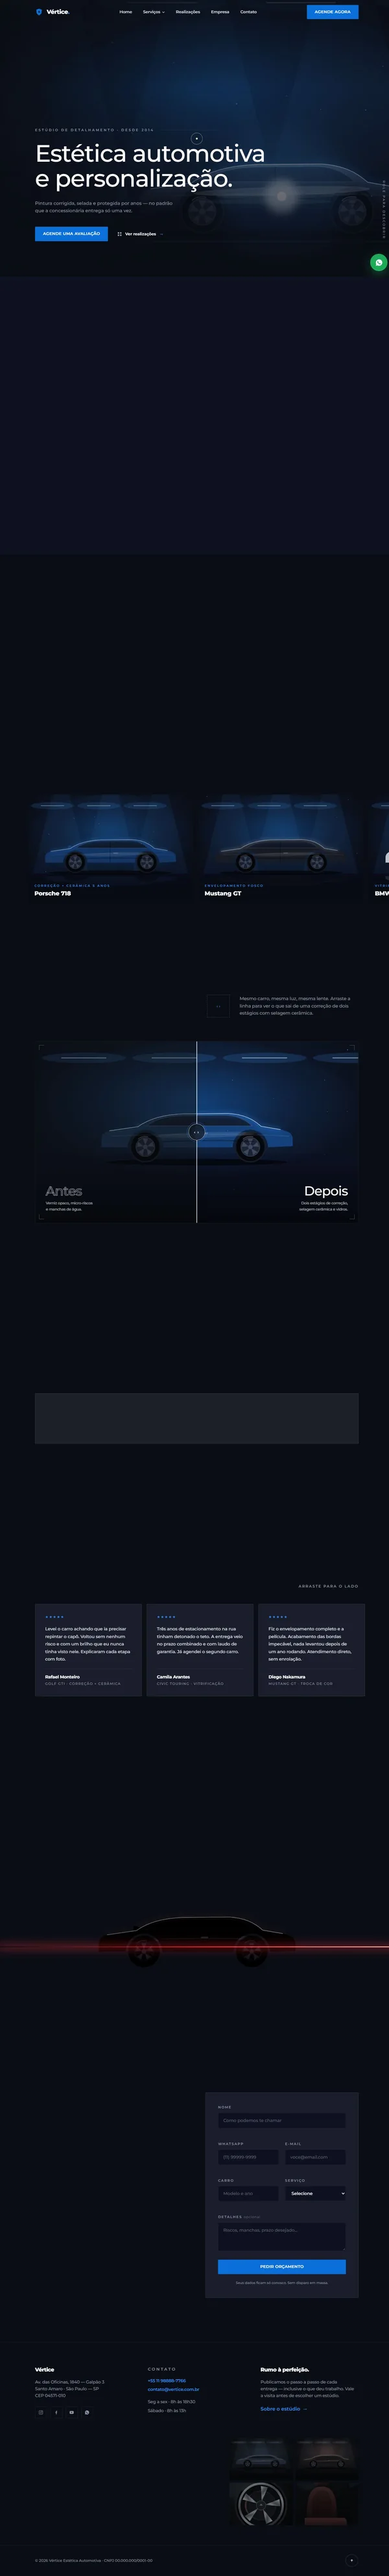
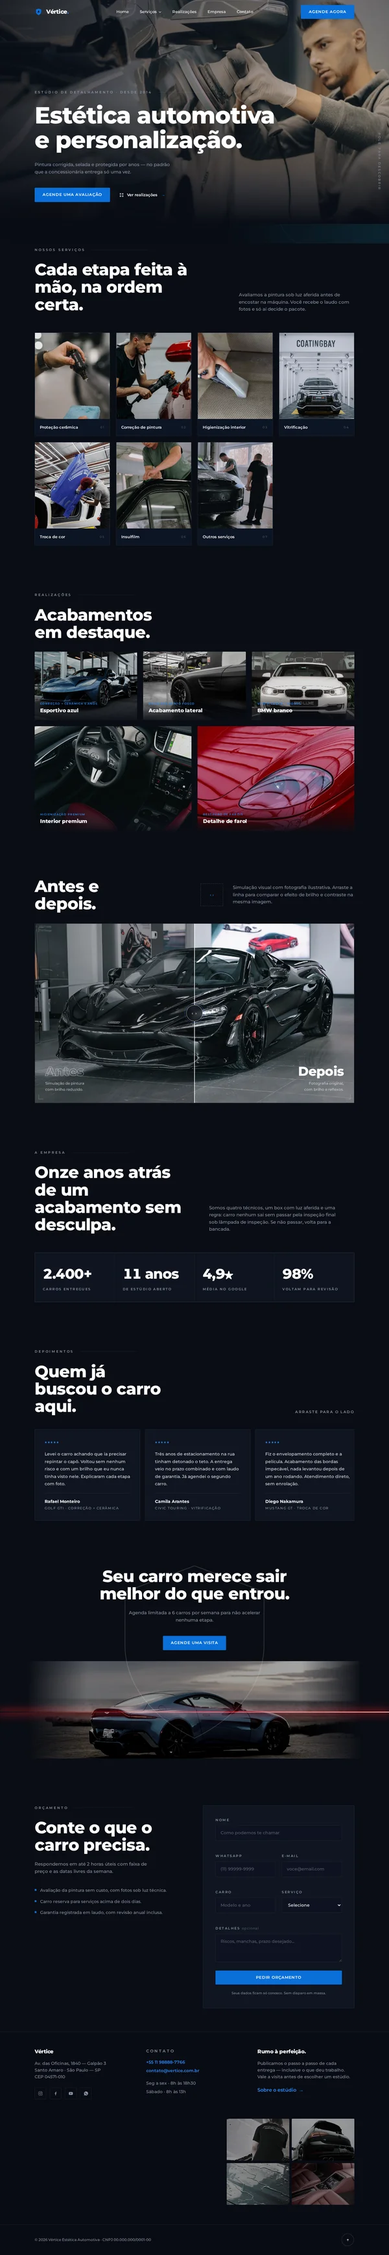
Alinha fotos aos serviços da Vértice e atualiza prévias do portfólio

diff --git a/projetos/vertice/index.html b/projetos/vertice/index.html
@@ -212,7 +212,7 @@ body.cursor-off #cur-dot,body.cursor-off #cur-ring{display:none}
 .svc-grid{display:grid;grid-template-columns:repeat(4,1fr);gap:16px;perspective:1000px}
 .svc{
   position:relative;background:var(--surface);border-radius:2px;overflow:hidden;cursor:pointer;
-  transform-style:preserve-3d;will-change:transform;transition:box-shadow .45s ease;
+  transform-style:flat;will-change:transform;transition:box-shadow .45s ease;
 }
 .svc:hover,.svc:focus-visible{box-shadow:0 28px 60px rgba(0,0,0,.55)}
 .svc-img{position:relative;aspect-ratio:1/1.1;overflow:hidden}
@@ -568,31 +568,31 @@ body{isolation:isolate}
 
     <div class="svc-grid mt-16">
       <article class="svc is-reveal" tabindex="0">
-        <div class="svc-img"><img src="assets/images/esportivo-azul.webp" loading="lazy" width="800" height="880" alt="Capô e dianteira de carro esportivo azul com reflexos na pintura"></div>
+        <div class="svc-img"><img src="assets/images/protecao-ceramica.webp" loading="lazy" width="800" height="880" alt="Preparação do revestimento cerâmico em um aplicador azul junto à lataria"></div>
         <div class="svc-bar"><span>Proteção cerâmica</span><em>01</em></div>
       </article>
       <article class="svc is-reveal" tabindex="0">
-        <div class="svc-img"><img src="assets/images/polimento-profissional.webp" loading="lazy" width="800" height="880" alt="Politriz trabalhando a lataria de um carro"></div>
+        <div class="svc-img"><img src="assets/images/correcao-pintura.webp" loading="lazy" width="800" height="880" alt="Profissional usando politriz na pintura de um carro vermelho"></div>
         <div class="svc-bar"><span>Correção de pintura</span><em>02</em></div>
       </article>
       <article class="svc is-reveal" tabindex="0">
-        <div class="svc-img"><img src="assets/images/interior-couro-vermelho.webp" loading="lazy" width="800" height="880" alt="Interior de carro com bancos de couro vermelho"></div>
+        <div class="svc-img"><img src="assets/images/higienizacao-extratora.webp" loading="lazy" width="800" height="880" alt="Limpeza profunda de banco de tecido com extratora"></div>
         <div class="svc-bar"><span>Higienização interior</span><em>03</em></div>
       </article>
       <article class="svc is-reveal" tabindex="0">
-        <div class="svc-img"><img src="assets/images/lavagem-espuma.webp" loading="lazy" width="800" height="880" alt="Lataria coberta por espuma durante a lavagem automotiva"></div>
+        <div class="svc-img"><img src="assets/images/vitrificacao-estudio.webp" loading="lazy" width="800" height="880" alt="SUV em box de aplicação de revestimento com iluminação de inspeção"></div>
         <div class="svc-bar"><span>Vitrificação</span><em>04</em></div>
       </article>
       <article class="svc is-reveal" tabindex="0">
-        <div class="svc-img"><img src="assets/images/esportivo-azul-lateral.webp" loading="lazy" width="800" height="880" alt="Carro esportivo azul visto de lado"></div>
+        <div class="svc-img"><img src="assets/images/envelopamento-azul.webp" loading="lazy" width="800" height="880" alt="Profissional aplicando vinil azul na porta de um carro"></div>
         <div class="svc-bar"><span>Troca de cor</span><em>05</em></div>
       </article>
       <article class="svc is-reveal" tabindex="0">
-        <div class="svc-img"><img src="assets/images/vidros-escurecidos.webp" loading="lazy" width="800" height="880" alt="Carro preto com vidros escurecidos"></div>
+        <div class="svc-img"><img src="assets/images/instalacao-insulfilm.webp" loading="lazy" width="800" height="880" alt="Instalador ajustando película no vidro da porta de um carro"></div>
         <div class="svc-bar"><span>Insulfilm</span><em>06</em></div>
       </article>
       <article class="svc is-reveal" tabindex="0">
-        <div class="svc-img"><img src="assets/images/esportivo-preto.webp" loading="lazy" width="800" height="880" alt="Carro esportivo preto em um showroom"></div>
+        <div class="svc-img"><img src="assets/images/protecao-pelicula.webp" loading="lazy" width="800" height="880" alt="Profissionais aplicando película de proteção na carroceria"></div>
         <div class="svc-bar"><span>Outros serviços</span><em>07</em></div>
       </article>
     </div>
@@ -653,9 +653,9 @@ body{isolation:isolate}
       <span class="cmp-corner tl" aria-hidden="true"></span><span class="cmp-corner tr" aria-hidden="true"></span>
       <span class="cmp-corner bl" aria-hidden="true"></span><span class="cmp-corner br" aria-hidden="true"></span>
 
-      <img class="cmp-img" src="assets/images/esportivo-azul.webp" loading="lazy" width="1600" height="900" alt="Carro esportivo azul com brilho e reflexos na pintura">
+      <img class="cmp-img" src="assets/images/esportivo-preto.webp" loading="lazy" width="1600" height="900" alt="Carro esportivo preto com reflexos na pintura em um showroom">
       <div class="cmp-before" id="cmp-before" aria-hidden="true">
-        <img class="cmp-img" src="assets/images/esportivo-azul.webp" loading="lazy" width="1600" height="900" alt="">
+        <img class="cmp-img" src="assets/images/esportivo-preto.webp" loading="lazy" width="1600" height="900" alt="">
       </div>
 
       <div class="cmp-cap cmp-cap-before" id="cap-before">
@@ -873,9 +873,9 @@ body{isolation:isolate}
 
   <div class="shell mt-16">
     <div class="mosaic">
-      <a href="#realizacoes" class="mos"><img src="assets/images/esportivo-azul.webp" loading="lazy" width="600" height="400" alt="Carro esportivo azul em frente a um showroom"></a>
-      <a href="#realizacoes" class="mos"><img src="assets/images/lateral-estudio.webp" loading="lazy" width="600" height="400" alt="Lateral de carro esportivo sob a iluminação da oficina"></a>
-      <a href="#realizacoes" class="mos"><img src="assets/images/painel-console.webp" loading="lazy" width="600" height="400" alt="Painel e console central de carro"></a>
+      <a href="#realizacoes" class="mos"><img src="assets/images/lavagem-espuma.webp" loading="lazy" width="600" height="400" alt="Lavagem de carro coberto por espuma"></a>
+      <a href="#realizacoes" class="mos"><img src="assets/images/vidros-escurecidos.webp" loading="lazy" width="600" height="400" alt="Traseira de carro preto com vidros escurecidos"></a>
+      <a href="#realizacoes" class="mos"><img src="assets/images/gotas-pintura.webp" loading="lazy" width="600" height="400" alt="Gotas de água sobre a pintura de um carro"></a>
       <a href="#realizacoes" class="mos"><img src="assets/images/interior-couro-vermelho.webp" loading="lazy" width="600" height="400" alt="Bancos e acabamento de couro vermelho"></a>
     </div>
   </div>

diff --git a/projetos/vertice/vertice-landing.html b/projetos/vertice/vertice-landing.html
@@ -212,7 +212,7 @@ body.cursor-off #cur-dot,body.cursor-off #cur-ring{display:none}
 .svc-grid{display:grid;grid-template-columns:repeat(4,1fr);gap:16px;perspective:1000px}
 .svc{
   position:relative;background:var(--surface);border-radius:2px;overflow:hidden;cursor:pointer;
-  transform-style:preserve-3d;will-change:transform;transition:box-shadow .45s ease;
+  transform-style:flat;will-change:transform;transition:box-shadow .45s ease;
 }
 .svc:hover,.svc:focus-visible{box-shadow:0 28px 60px rgba(0,0,0,.55)}
 .svc-img{position:relative;aspect-ratio:1/1.1;overflow:hidden}
@@ -568,31 +568,31 @@ body{isolation:isolate}
 
     <div class="svc-grid mt-16">
       <article class="svc is-reveal" tabindex="0">
-        <div class="svc-img"><img src="assets/images/esportivo-azul.webp" loading="lazy" width="800" height="880" alt="Capô e dianteira de carro esportivo azul com reflexos na pintura"></div>
+        <div class="svc-img"><img src="assets/images/protecao-ceramica.webp" loading="lazy" width="800" height="880" alt="Preparação do revestimento cerâmico em um aplicador azul junto à lataria"></div>
         <div class="svc-bar"><span>Proteção cerâmica</span><em>01</em></div>
       </article>
       <article class="svc is-reveal" tabindex="0">
-        <div class="svc-img"><img src="assets/images/polimento-profissional.webp" loading="lazy" width="800" height="880" alt="Politriz trabalhando a lataria de um carro"></div>
+        <div class="svc-img"><img src="assets/images/correcao-pintura.webp" loading="lazy" width="800" height="880" alt="Profissional usando politriz na pintura de um carro vermelho"></div>
         <div class="svc-bar"><span>Correção de pintura</span><em>02</em></div>
       </article>
       <article class="svc is-reveal" tabindex="0">
-        <div class="svc-img"><img src="assets/images/interior-couro-vermelho.webp" loading="lazy" width="800" height="880" alt="Interior de carro com bancos de couro vermelho"></div>
+        <div class="svc-img"><img src="assets/images/higienizacao-extratora.webp" loading="lazy" width="800" height="880" alt="Limpeza profunda de banco de tecido com extratora"></div>
         <div class="svc-bar"><span>Higienização interior</span><em>03</em></div>
       </article>
       <article class="svc is-reveal" tabindex="0">
-        <div class="svc-img"><img src="assets/images/lavagem-espuma.webp" loading="lazy" width="800" height="880" alt="Lataria coberta por espuma durante a lavagem automotiva"></div>
+        <div class="svc-img"><img src="assets/images/vitrificacao-estudio.webp" loading="lazy" width="800" height="880" alt="SUV em box de aplicação de revestimento com iluminação de inspeção"></div>
         <div class="svc-bar"><span>Vitrificação</span><em>04</em></div>
       </article>
       <article class="svc is-reveal" tabindex="0">
-        <div class="svc-img"><img src="assets/images/esportivo-azul-lateral.webp" loading="lazy" width="800" height="880" alt="Carro esportivo azul visto de lado"></div>
+        <div class="svc-img"><img src="assets/images/envelopamento-azul.webp" loading="lazy" width="800" height="880" alt="Profissional aplicando vinil azul na porta de um carro"></div>
         <div class="svc-bar"><span>Troca de cor</span><em>05</em></div>
       </article>
       <article class="svc is-reveal" tabindex="0">
-        <div class="svc-img"><img src="assets/images/vidros-escurecidos.webp" loading="lazy" width="800" height="880" alt="Carro preto com vidros escurecidos"></div>
+        <div class="svc-img"><img src="assets/images/instalacao-insulfilm.webp" loading="lazy" width="800" height="880" alt="Instalador ajustando película no vidro da porta de um carro"></div>
         <div class="svc-bar"><span>Insulfilm</span><em>06</em></div>
       </article>
       <article class="svc is-reveal" tabindex="0">
-        <div class="svc-img"><img src="assets/images/esportivo-preto.webp" loading="lazy" width="800" height="880" alt="Carro esportivo preto em um showroom"></div>
+        <div class="svc-img"><img src="assets/images/protecao-pelicula.webp" loading="lazy" width="800" height="880" alt="Profissionais aplicando película de proteção na carroceria"></div>
         <div class="svc-bar"><span>Outros serviços</span><em>07</em></div>
       </article>
     </div>
@@ -653,9 +653,9 @@ body{isolation:isolate}
       <span class="cmp-corner tl" aria-hidden="true"></span><span class="cmp-corner tr" aria-hidden="true"></span>
       <span class="cmp-corner bl" aria-hidden="true"></span><span class="cmp-corner br" aria-hidden="true"></span>
 
-      <img class="cmp-img" src="assets/images/esportivo-azul.webp" loading="lazy" width="1600" height="900" alt="Carro esportivo azul com brilho e reflexos na pintura">
+      <img class="cmp-img" src="assets/images/esportivo-preto.webp" loading="lazy" width="1600" height="900" alt="Carro esportivo preto com reflexos na pintura em um showroom">
       <div class="cmp-before" id="cmp-before" aria-hidden="true">
-        <img class="cmp-img" src="assets/images/esportivo-azul.webp" loading="lazy" width="1600" height="900" alt="">
+        <img class="cmp-img" src="assets/images/esportivo-preto.webp" loading="lazy" width="1600" height="900" alt="">
       </div>
 
       <div class="cmp-cap cmp-cap-before" id="cap-before">
@@ -873,9 +873,9 @@ body{isolation:isolate}
 
   <div class="shell mt-16">
     <div class="mosaic">
-      <a href="#realizacoes" class="mos"><img src="assets/images/esportivo-azul.webp" loading="lazy" width="600" height="400" alt="Carro esportivo azul em frente a um showroom"></a>
-      <a href="#realizacoes" class="mos"><img src="assets/images/lateral-estudio.webp" loading="lazy" width="600" height="400" alt="Lateral de carro esportivo sob a iluminação da oficina"></a>
-      <a href="#realizacoes" class="mos"><img src="assets/images/painel-console.webp" loading="lazy" width="600" height="400" alt="Painel e console central de carro"></a>
+      <a href="#realizacoes" class="mos"><img src="assets/images/lavagem-espuma.webp" loading="lazy" width="600" height="400" alt="Lavagem de carro coberto por espuma"></a>
+      <a href="#realizacoes" class="mos"><img src="assets/images/vidros-escurecidos.webp" loading="lazy" width="600" height="400" alt="Traseira de carro preto com vidros escurecidos"></a>
+      <a href="#realizacoes" class="mos"><img src="assets/images/gotas-pintura.webp" loading="lazy" width="600" height="400" alt="Gotas de água sobre a pintura de um carro"></a>
       <a href="#realizacoes" class="mos"><img src="assets/images/interior-couro-vermelho.webp" loading="lazy" width="600" height="400" alt="Bancos e acabamento de couro vermelho"></a>
     </div>
   </div>

diff --git a/index.html b/index.html
@@ -58,7 +58,7 @@
           <a class="project-card" href="./projetos/yumed/" target="_blank" rel="noopener noreferrer" aria-label="Visitar site YU.MED" data-project="0"><picture><source media="(max-width: 800px)" srcset="./assets/sites/site-1-mobile.webp"><img src="./assets/sites/site-1.webp" srcset="./assets/sites/site-1-small.webp 600w, ./assets/sites/site-1.webp 1000w" sizes="(max-width:600px) 70vw, 25vw" width="1000" height="1924" alt="Site da YU.MED com sorriso, tipografia editorial e painéis de vidro azul-marinho" loading="lazy" draggable="false"></picture><span class="card-halftone" aria-hidden="true"></span><span class="project-tag">ODONTOLOGIA · LANDING PAGE</span><span class="project-bottom"><span><small>01 / ESTÉTICA & CUIDADO</small><strong>YU.MED</strong></span><span class="project-visit">Visitar <svg class="icon" aria-hidden="true"><use href="#arrow"/></svg></span></span></a>
           <a class="project-card" href="./projetos/kinetic/" target="_blank" rel="noopener noreferrer" aria-label="Visitar site KINETIC" data-project="1"><picture><source media="(max-width: 800px)" srcset="./assets/sites/site-2-mobile.webp"><img src="./assets/sites/site-2.webp" srcset="./assets/sites/site-2-small.webp 600w, ./assets/sites/site-2.webp 1000w" sizes="(max-width:600px) 70vw, 25vw" width="1000" height="3875" alt="Site minimalista da KINETIC em preto e branco com fotografia de fisioterapia" loading="lazy" draggable="false"></picture><span class="card-halftone" aria-hidden="true"></span><span class="project-tag">FISIOTERAPIA · INSTITUCIONAL</span><span class="project-bottom"><span><small>02 / CIÊNCIA & MOVIMENTO</small><strong>KINETIC</strong></span><span class="project-visit">Visitar <svg class="icon" aria-hidden="true"><use href="#arrow"/></svg></span></span></a>
           <a class="project-card" href="./projetos/nexo/" target="_blank" rel="noopener noreferrer" aria-label="Visitar site NEXO" data-project="2"><picture><source media="(max-width: 800px)" srcset="./assets/sites/site-3-mobile.webp"><img src="./assets/sites/site-3.webp" srcset="./assets/sites/site-3-small.webp 600w, ./assets/sites/site-3.webp 1000w" sizes="(max-width:600px) 70vw, 25vw" width="1000" height="7186" alt="Site NEXO com retrato do contador, dourado e uma cena financeira 3D" loading="lazy" draggable="false"></picture><span class="card-halftone" aria-hidden="true"></span><span class="project-tag">CONTABILIDADE · EXPERIÊNCIA 3D</span><span class="project-bottom"><span><small>03 / NÚMEROS & ESTRATÉGIA</small><strong>NEXO</strong></span><span class="project-visit">Visitar <svg class="icon" aria-hidden="true"><use href="#arrow"/></svg></span></span></a>
-          <a class="project-card" href="./projetos/vertice/" target="_blank" rel="noopener noreferrer" aria-label="Visitar site VÉRTICE" data-project="3"><picture><source media="(max-width: 800px)" srcset="./assets/sites/site-4-mobile.webp"><img src="./assets/sites/site-4.webp" srcset="./assets/sites/site-4-small.webp 600w, ./assets/sites/site-4.webp 1000w" sizes="(max-width:600px) 70vw, 25vw" width="1000" height="6611" alt="Site Vértice de estética automotiva com uma identidade visual azul e preta" loading="lazy" draggable="false"></picture><span class="card-halftone" aria-hidden="true"></span><span class="project-tag">AUTOMOTIVO · IMERSIVO</span><span class="project-bottom"><span><small>04 / PRECISÃO & PERSONALIDADE</small><strong>VÉRTICE</strong></span><span class="project-visit">Visitar <svg class="icon" aria-hidden="true"><use href="#arrow"/></svg></span></span></a>
+          <a class="project-card" href="./projetos/vertice/" target="_blank" rel="noopener noreferrer" aria-label="Visitar site VÉRTICE" data-project="3"><picture><source media="(max-width: 800px)" srcset="./assets/sites/site-4-mobile.webp"><img src="./assets/sites/site-4.webp" srcset="./assets/sites/site-4-small.webp 600w, ./assets/sites/site-4.webp 1000w" sizes="(max-width:600px) 70vw, 25vw" width="1000" height="5791" alt="Site Vértice com fotos reais de detalhamento automotivo e serviços em azul e preto" loading="lazy" draggable="false"></picture><span class="card-halftone" aria-hidden="true"></span><span class="project-tag">AUTOMOTIVO · IMERSIVO</span><span class="project-bottom"><span><small>04 / PRECISÃO & PERSONALIDADE</small><strong>VÉRTICE</strong></span><span class="project-visit">Visitar <svg class="icon" aria-hidden="true"><use href="#arrow"/></svg></span></span></a>
           <a class="project-card" href="./projetos/bruto/" target="_blank" rel="noopener noreferrer" aria-label="Visitar site BRUTO BURGER" data-project="4"><picture><source media="(max-width: 800px)" srcset="./assets/sites/site-5-mobile.webp"><img src="./assets/sites/site-5.webp" srcset="./assets/sites/site-5-small.webp 600w, ./assets/sites/site-5.webp 1000w" sizes="(max-width:600px) 70vw, 25vw" width="1000" height="6377" alt="Site BRUTO BURGER com um hambúrguer artesanal e cardápio interativo" loading="lazy" draggable="false"></picture><span class="card-halftone" aria-hidden="true"></span><span class="project-tag">GASTRONOMIA · INTERATIVO</span><span class="project-bottom"><span><small>05 / SABOR & ATITUDE</small><strong>BRUTO BURGER</strong></span><span class="project-visit">Visitar <svg class="icon" aria-hidden="true"><use href="#arrow"/></svg></span></span></a>
         </div></div>
         <div class="gallery-controls"><button class="round glass" id="gallery-prev" aria-label="Projeto anterior"><svg class="icon" style="rotate:180deg" aria-hidden="true"><use href="#right"/></svg></button><div class="gallery-counter"><span id="gallery-current">03</span><span>/</span><span id="gallery-total">05</span><div class="gallery-progress"><i></i></div></div><button class="round glass" id="gallery-next" aria-label="Próximo projeto"><svg class="icon" aria-hidden="true"><use href="#right"/></svg></button></div><p class="gallery-status sr-only" id="gallery-status" role="status" aria-live="polite"></p>

diff --git a/src/config.js b/src/config.js
@@ -13,7 +13,7 @@ export const SITES=[
   {name:'YU.MED',category:'Odontologia · Landing page',url:'./projetos/yumed/',image:'./assets/sites/site-1.webp',imageFallback:'./assets/sites/site-1.jpg',alt:'Site da YU.MED com fotografia de um sorriso, tipografia editorial e painéis de vidro azul-marinho'},
   {name:'KINETIC',category:'Fisioterapia · Institucional',url:'./projetos/kinetic/',image:'./assets/sites/site-2.webp',imageFallback:'./assets/sites/site-2.jpg',alt:'Site da KINETIC em preto e branco com fotografia de fisioterapia e composição minimalista'},
   {name:'NEXO',category:'Contabilidade · Experiência 3D',url:'./projetos/nexo/',image:'./assets/sites/site-3.webp',imageFallback:'./assets/sites/site-3.jpg',alt:'Site da NEXO com contador, detalhes dourados e uma cena financeira tridimensional'},
-  {name:'VÉRTICE',category:'Automotivo · Imersivo',url:'./projetos/vertice/',image:'./assets/sites/site-4.webp',imageFallback:'./assets/sites/site-4.jpg',alt:'Site Vértice de estética automotiva com carros e uma identidade visual de alto contraste'},
+  {name:'VÉRTICE',category:'Automotivo · Imersivo',url:'./projetos/vertice/',image:'./assets/sites/site-4.webp',imageFallback:'./assets/sites/site-4.jpg',alt:'Site Vértice com fotos reais de detalhamento automotivo e serviços em azul e preto'},
   {name:'BRUTO BURGER',category:'Gastronomia · Interativo',url:'./projetos/bruto/',image:'./assets/sites/site-5.webp',imageFallback:'./assets/sites/site-5.jpg',alt:'Site da BRUTO BURGER com hambúrguer artesanal, tipografia marcante e cardápio interativo'}
 ];
 
